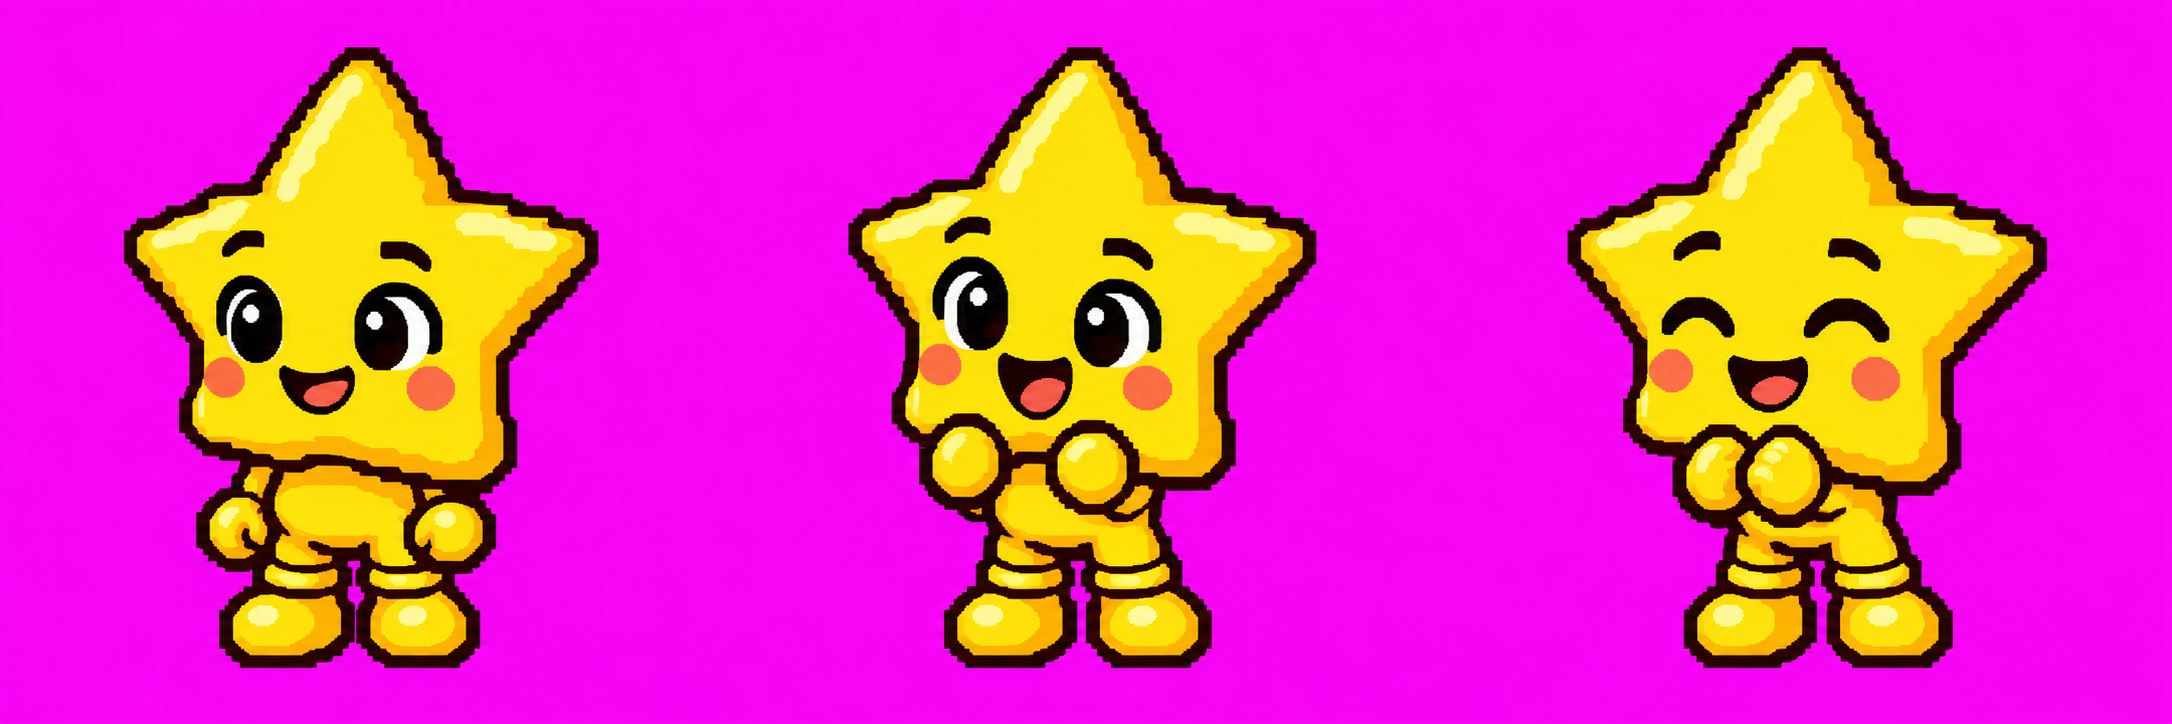
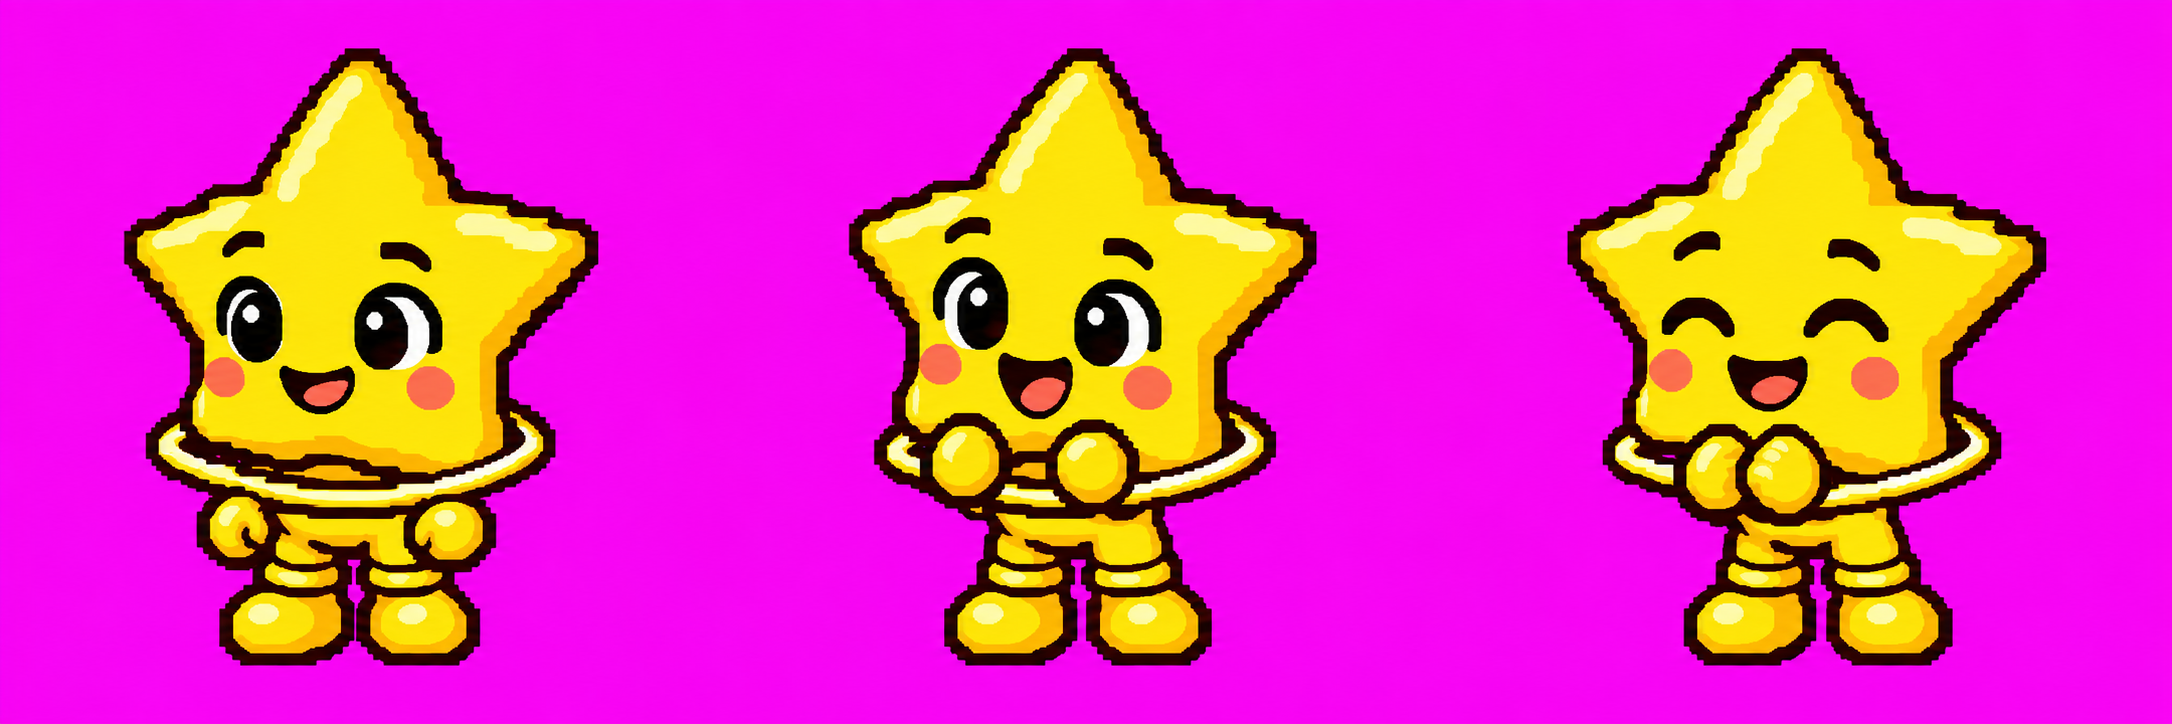
fix: sunagimoを見守るエトキチの輪っかを復元

diff --git a/docs/sunagimo-imagegen.md b/docs/sunagimo-imagegen.md
@@ -1,5 +1,7 @@
 # sunagimoの画像制作
 
+エトキチの外見では、腰を囲んで左右へ張り出す金色の輪っかを必ず保持する。新しい表情・ポーズを作る場合も全コマと図鑑で確認する。基準画像は `assets-src/etokichi-walk-pixel-v2.webp`。
+
 - 方式: imagegenスキルの組み込みツール
 - 参照: [sunagimo](https://minerva.mamansoft.net/Notes/sunagimo)
 - 原画: `assets-src/sunagimo-grill-pixel.webp`
@@ -27,6 +29,22 @@ Use case: stylized-concept. Make a NEW dedicated Etokichi reaction sprite sheet,
 
 ```text
 Use case: precise-object-edit. Edit this collectible pixel art illustration ONLY the yellow star Etokichi character: remove the wooden spoon from his hands, show him with empty hands together in delighted applause, turn his star face and joyful gaze toward sunagimo on his LEFT. Etokichi is watching his friend and reacting, not cooking. Preserve sunagimo exactly, its skewer with three meat pieces, whole room, pot, furniture, warm evening lighting, composition and pixel art style. No other changes, no text.
+```
+
+## 輪っかの復元
+
+専用リアクションの初回生成で欠けた腰の輪っかを、歩行シートを参照して全3コマと図鑑へ戻した。組み込みimagegenで修正し、同じ原画・部屋用・図鑑用パスへ反映した。
+
+### スプライト修正のプロンプト
+
+```text
+Use case: precise-object-edit. Image 1 is the EDIT TARGET, a three-cell Etokichi reaction sprite sheet. Image 2 is the REFERENCE for Etokichi's missing signature WAIST RING. Add the same thin golden yellow oval Saturn-like hoop encircling Etokichi horizontally around the WAIST in ALL THREE cells of image 1. The ring has a pale cream highlight and dark brown pixel outline, extends beyond both sides of torso, its front arc passes in front of lower belly and back arc behind body, exactly as shown in reference image 2. This is a waist orbit ring, NOT a halo above the head and NOT a belt tight against body. Keep ALL existing poses, leftward gaze, expressions, hands, feet, character size, cell layout, canvas aspect ratio and flat magenta #ff00ff background unchanged. Only add the missing waist ring. No other additions, no cookware, no text. Crisp matching pixel art.
+```
+
+### 図鑑修正のプロンプト
+
+```text
+Use case: precise-object-edit. Image 1 is the EDIT TARGET. Image 2 is reference for the yellow star Etokichi character's signature WAIST RING. Add ONLY the missing thin golden yellow oval ring encircling Etokichi's waist horizontally, as reference image 2: a Saturn-like hoop projecting beyond torso on both sides, creamy golden highlight and dark outline, front arc across lower belly, back arc behind body. NOT a head halo, not a tight belt. Preserve image 1 absolutely everywhere else: joyful Etokichi looking left and clapping with empty hands, sunagimo with 3-piece skewer, all furniture and pot and room lighting and pixel-art style. Do not reposition or resize characters. No other changes or text.
 ```
 
 ## 初回制作のプロンプト
